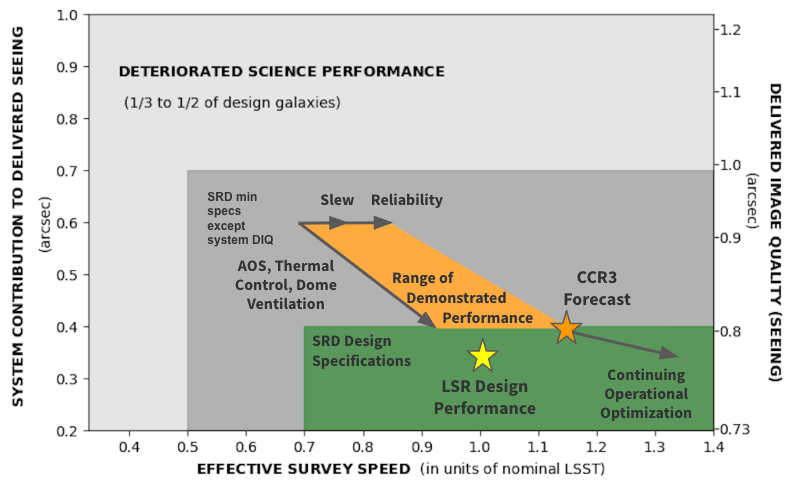
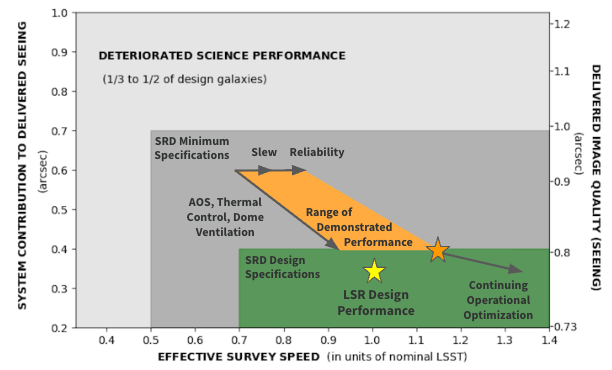
lean up and new figures

Changed region(s): [[0.0, 0.0, 0.9935, 1.0]]

diff --git a/criteria.tex b/criteria.tex
@@ -1,8 +1,8 @@
 \section{Criteria to begin the LSST}
 
-Armed with an understanding of the \it{as--built} system performance as outlined above and the Operations team readiness, we will use a set of objective criteria to gate the start of the LSST. These criteria will be concise and easily understandable so that the community of scientists, Rubin staff and other stakeholders counting on Rubin and the survey can have confidence the Observatory is on track.
+Armed with an understanding of the {\it as--built} system performance as outlined above and the Operations team readiness, we will use a set of objective criteria to gate the start of the LSST. These criteria will be concise and easily understandable so that the community of scientists, Rubin staff and other stakeholders counting on Rubin and the survey can have confidence the Observatory is on track.
 
-The criteria articulated below are meant only to provide gating guidance signifying the survey start. There will likely be key processes within the overall system, including data management and processing where further work for improvements are required or desired after handover (beyond the construction project requirements). Unless these would prevent acquisition and saving of science quality data, thereby delaying the survey start, they are not discussed or enumerated here.  These and other criteria (TBD) will be used to gage and monitor the overall performance of the Observatory and progress towards the 10--year survey objectives going forward, with nominal $T=0$ defined by when start criteria described herein are met.
+The criteria articulated below are meant only to provide gating guidance signifying the survey start. There will be key processes within the overall system, including data management and processing where further work for improvements are required or desired after handover (beyond the construction project requirements). Unless these would prevent acquisition and saving of science quality data, thereby delaying the survey start, they are not discussed or enumerated here.  These and other criteria (TBD) will be used to gauge and monitor the overall performance of the Observatory and progress towards the 10--year survey objectives going forward, with nominal $T=0$ defined by when start criteria described herein are met.
 
 The initial set of criteria developed by Operations team were discussed with the Science Advisory Committee and community at the 2024 Rubin Community Workshop. These criteria have evolved since that meeting and are presented here in the table below.
 
@@ -16,13 +16,13 @@ The initial set of criteria developed by Operations team were discussed with the
 Item & Criterion & Description& Status \\
 \hline \hline
 
-1 & \makecell[l]{LSSTCam\\ Maintenance} & Before the completion of SV, it is understood whether or not off TMA Camera maintenance will be needed within the first year of Operations.& No off TMA maintenance required.  \\\hline  
+1 & \makecell[l]{LSSTCam\\ Maintenance} & Before the completion of SV, it is understood whether or not off TMA Camera maintenance will be needed within the first year of Operations.& \makecell[l]{No off TMA \\maintenance\\ required.}  \\\hline  
 
-2 & SRD & All science requirements that can be verified with SV data are verified or expected to be verified within 3 months of completion of SV. & Status at CCR3 \\\hline
+2 & SRD & All science requirements that can be verified with SV data are verified or expected to be verified within 3 months of completion of SV. & Check status at CCR3 \\\hline
 
 3 & Dome & The dome environment is not limiting typical performance. &\makecell[l]{ Not controlled \\until after \\Handover} \\\hline
 
-4 & Calibration & All necessary calibration data products are available at the time any LSST data are obtained or can be obtained after the fact without invalidating the observed data for inclusion in the LSST. & Status at CCR3 \\\hline
+4 & Calibration & All necessary calibration data products are available at the time any LSST data are obtained or can be obtained after the fact without invalidating the observed data for inclusion in the LSST. & Check status at CCR3 \\\hline
 
 5 & DIQ & The ''System'' contribution to the measured Delivered Image quality is better than or equal to 0.45$\arcsec$ & \makecell[l]{Currently 0.6$\arcsec$ \\system \\contribution}\\\hline
 
@@ -30,7 +30,7 @@ Item & Criterion & Description& Status \\
 
 7 & Cadence & The scientific merits and technical feasibility of the planned survey scheduler algorithms for DR1 have bee reviewed and verified. & In progress\\\hline
 
-8 & Early Science & DP2 observations are completed as planned \citep{RTN-011}.& Status at CCR3 \\
+8 & Early Science & DP2 observations are completed as planned \citep{RTN-011}.& \makecell[l]{SV is complete; \\a report will be delivered by \\October.} \\
 
 \hline
 \end{tabular}
@@ -38,20 +38,22 @@ Item & Criterion & Description& Status \\
 
 The initial boundary conditions for determining the start criteria are that the construction project has successfully accomplished its own Construction Completeness Criteria (\cite{SITCOMTN-005}) and has passed the third Construction Completeness Review (CCR3).  Successful completion of CCR3 means NSF and DOE have accepted the system as the one that was intended to be built and will operate to conduct the 10-year LSST science program.  
 
-The survey start criteria cover a range of contexts.  The criteria are not meant to be comprehensive with respect to gauging and monitoring LSST's scientific progress and success. They are intended to serve as a guide for the confident commencement of the survey -- effectively establishing what will be referred to as LSST $T=0$.  Most of the defined criteria look to be well in hand based on what we know about commissioning progress and system performance as reported at CCR2/ORR1.  Of the 8 criteria enumerated we have identified what we call ''The Big 3'', namely: Delivered Image Quality separated into two primary contributors -- (1) the interior dome environment plus (2) the hardware system (optics, tracking etc..), and (3) the survey speed or Normalized \'{E}tendue. These are discussed in more detail in the notes below.
+The survey start criteria cover a range of contexts.  The criteria are not meant to be comprehensive with respect to gauging and monitoring LSST's scientific progress and success. They are intended to serve as a guide for the confident commencement of the survey -- effectively establishing what will be referred to as LSST T$=0$.  Most of the defined criteria look to be well in hand based on what we know about commissioning progress and system performance as reported at CCR2/ORR1.  Of the 8 criteria enumerated we have identified what we call ''The Big 3,'' : Delivered Image Quality (DIQ) with two primary contributors -- (1) the interior dome environment plus (2) the hardware system (optics, tracking etc.), and (3) the survey speed or Normalized \'{E}tendue. 
 
-Item 1 is already met. We do not expect to have to remove the camera for maintenance before we begin the survey. Item 2 is needed to ensure some key aspects of the system don't need verification before we embark on the LSST. Some long term SRD requirements need a significant amount of data to finally validate. But we can be assured data being taken are going to be valid for the LSST if the requirements that can be validated with SV data have been. This will be confirmed at CCR3. The calibration system (item 4)  is in the advanced stages of validation. By CCR3, we can be assured no outstanding calibration needs will limit the taking of images for the LSST. For item 7, the Survey Cadence Optimization Committee has delivered to the Operations Directorate one (or more) proposed survey cadence algorithms to be implemented using the Feature Based Scheduler.  The scientific merits and technical feasibility of the proposed algorithm(s) will have been reviewed (If more than one proposal is provided a selection is made).  This selection will be the core algorithm adopted through LSST observations leading to the first data release DR1.  Remaining minor adjustments to the adopted algorithms are expected to be made as needed.  The adopted cadence algorithm has been verified with simulations using as--built performance, by on-sky operations using the Feature Based Scheduler.  Once SV data taking is complete, we will know the content of DP2 (item 8) and be able to decide whether or not any significant augmentations are critical for community preparation prior to data release 1 \citep[DR1; see][]{RTN-011}. 
+Looking at the criteria in Table~\ref{tab:criteria}, Item 1 is already met. We do not expect to have to remove the camera for maintenance before we begin the survey. Item 2 is needed to ensure some key aspects of the system don't need verification before we embark on the LSST. Some long term SRD requirements need a significant amount of data to finally validate. But we can be assured data being taken are going to be valid for the LSST if the requirements that can be validated with SV data have been validated. This will be confirmed at CCR3. The calibration system (item 4)  is in the advanced stages of validation. By CCR3, we can be assured no outstanding calibration needs will limit the taking of images for the LSST. For item 7, the Survey Cadence Optimization Committee has delivered to the Operations Directorate one (or more) proposed survey cadence algorithms to be implemented using the Feature Based Scheduler.  The scientific merits and technical feasibility of the proposed algorithm(s) will have been reviewed (If more than one proposal is provided a selection is made).  This selection will be the core algorithm adopted through LSST observations leading to the first data release DR1.  Remaining minor adjustments to the adopted algorithms are expected to be made as needed.  The adopted cadence algorithm has been verified with simulations using as--built performance, by on-sky operations using the Feature Based Scheduler.  Once SV data taking is complete, we will know the content of DP2 (item 8) and be able to decide whether or not any significant augmentations are critical for community preparation prior to data release 1 \citep[DR1; see][]{RTN-011}. 
+
+This leave the dome environment and optics left to consider.
 
 \subsection{Dome Environmental Control}
-The dome will be the last major subsystem to be completed. Indeed it will not be done until mid 2026. The critical aspects that are needed are: to install, provide control for, and optimize the actuators for the dome louvers and the installation of the HVAC ductwork used for daytime thermal conditioning of the dome interior. There are 40 louvers, and some large fraction need to be operable (open at fractions consistent with telemetry in real time for temperatures and wind). The first actuators are installed now and one louver has been opened at night. Still more will need to be brought on line after the handover to meeting the system image quality criterion (we currently expect 12 will be operable after handover). If the louvers limit us to worse than typical min SRD system DIQ performance, we won't be able to start the LSST until they are largely deployed and in routine operation. 
+The dome will be the last major subsystem to be completed. Indeed it will not be done until mid 2026. The critical aspects that are needed are: to install, provide control for, and optimize the actuators for the dome louvers and the installation of the HVAC ductwork used for daytime thermal conditioning of the dome interior. There are 40 louvers, and some large fraction need to be operable (open at fractions consistent with telemetry in real time for temperatures and wind). The first actuators are installed now and one louver has been opened at night. Still more will need to be brought on line after the handover to meeting the system image quality criterion (we currently expect 12 will be operable after handover). If the louvers limit us to worse than typical system DIQ performance, we won't be able to start the LSST until they are largely deployed and in routine operation. 
 
 There are large ducts that will provide conditioned air distribution supplied by the main air handlers inside the facility. This system is designed to pre-condition the internal dome environment during daytime hours to minimize thermal discontinuities at the start of each night caused by diurnal heating.  This system is designed improve our ability to maintain the enclosure at closer to the anticipated mean nighttime temperature during the (earlier) day time. Maintaining thermal equilibrium in the environment in and around the telescope is critical to optimum DIQ during the night. The ducts are necessary but not sufficient. We will also need to gain experience in forecasting the coming night's temperature to be able to use the air conditioning effectively (i.e. to set the system to hit the right target). 
 
 Further use of available temperature sensors on the telescope and in the dome will help on going analyses aimed at improving the AOS and thermal control of the optics in real time. 
 
-The total contribution to DIQ from the dome environment is modest. Including all sources of turbulence generated by the facility, the budget to contribute to the DIQ is only 0.09$\arcsec$. Clearly all systems for controlling these contributions need to be working well and reliably. The observatory will need to rely on the ability to characterize parts of the DIQ coming from this environment. Thus we will prioritize reliable operation and calibration of our DIMM, in-dome seeing monitors, as well as the atmospheric profiler on Cerro Pach\'{on}, RINGSS.  
+The total contribution to DIQ from the dome environment is modest. Including all sources of turbulence generated by the facility, the budget (i.e residual contribution after control) to contribute to the DIQ is only 0.09$\arcsec$. Clearly all systems for controlling these contributions need to be working well and reliably. The observatory will need to rely on the ability to characterize parts of the DIQ coming from this environment. Thus we will prioritize reliable operation and calibration of our DIMM, in-dome seeing monitors, as well as the atmospheric profiler on Cerro Pach\'{on}, RINGSS.  
 
-\subsection{Deleivered Image Quality (DIQ)}
+\subsection{Delivered Image Quality (DIQ)}
 
 The single most important gain needed to get to the LSST start is clearly the typical DIQ.  We will not start the LSST until the sustained performance of the system contribution to DIQ is $\le$ 0.45$\arcsec$.  This criteria is the combination of both the telescope + LSSTCam optics and the degradations caused from any thermal non-equilibrium. Currently the very least the active optics contributes to the system has been measured at 0.33$\arcsec$.  The target for the active optics contribution is 0.25$\arcsec$ indicating there is room for improvement.  In addition to the active optics contribution, much of the remaining improvement needed to meet the system DIQ start criterion will come from system thermal control (mostly the dome environment).
 
@@ -60,7 +62,7 @@ Improving the system contribution to the DIQ requires continued effort on the co
 \begin{figure}[t]
 \centering
 \includegraphics[width=0.85\linewidth]{speed3.png}
-\caption{Image quality versus effective survey speed or Normalized \'{E}tendue. The large orange rectangle represents the region in this space within which we can confidently start the LSST.}
+\caption{Image quality versus effective survey speed or Normalized \'{E}tendue. The large orange rectangle represents the region in this space within which we can confidently start the LSST while working to maintain and improve performance.}
 \label{speed3}
 \end{figure}
 
@@ -69,7 +71,7 @@ Much of the effective speed (Normalized  \'{E}tendue) is already demonstrated to
 
 The TMA is capable of accelerating more than we currently operate it. Higher acceleration requires improvements in the control of dynamic loads on the M1M3 glass via force actuators. However the current performance with glass is captured in the scheduler simulator and is only a modest hit to overall survey speed. We will continue to work on improved dynamic control even as we operate for LSST. Slew and settle performance are well understood and adequate. Modest gains on fO are forecast for the rest of SV and early operations. We expect the current value to go from 0.97 to 1.05. 
 
-This leaves the System Availability, Current performance of 0.75 needs to be improved. Doing only science like observations we have reached 85$\%$ at times. We need to continue to improve on procedures and reliability of systems throughout the summit facility as we go forward. This means training for faster troubleshooting and fault recovery, making communications on the telescope system bus more reliable, improving reliability of telescope, dome, and camera functions. These have all seen marked progress as expected though out system integration, test, and commissioning. We will assume current performance of 75$\%$ conservatively. 
+This leaves the System Availability, Current performance of 0.75 needs to be improved. Doing only science like observations we have reached 85$\%$ at times. We need to continue to improve on procedures and reliability of systems throughout the summit facility as we go forward. This means training for faster troubleshooting and fault recovery, making communications on the telescope system bus more reliable, improving reliability of telescope, dome, and camera functions. These have all seen marked progress as expected thoughout system integration, test, and commissioning. We will assume current performance of 75$\%$ conservatively. 
 
 Using the combined SRD minimum specifications the lowest Normalized \'{E}tendue allowed is 0.7. This level is nearly in hand; see Table~\ref{tab:factors} and the ''Sustained Performance values''. We will start the LSST consistent with System Availability of 75$\%$ which leads to fE \~1.0 using the Demonstrated Capability column f factors in Table~\ref{tab:factors}. However, the actual value will be better given that we expect the System Availability to improve significantly. 
 

diff --git a/speed.tex b/speed.tex
@@ -24,11 +24,11 @@ In Figure~\ref{speed}, we show the state of our understanding of the image quali
 \label{speed}
 \end{figure}
 
-There are three regions defined in the diagram, green, light grey and dark grey, representing broad levels of operational performance towards meeting the 10--year LSST objectives. Clearly we want to be in the green shaded region and to the lower right in that space. The boundaries of the green box are defined by the design specification from the SRD (upper) and stretch goals (lower) for the system image quality contribution.  The light gray space is unacceptable for science and the dark gray space covers the area where SRD minimum specifications are met for depth, area of LSST, and visits, but fails to meet the specification for minimum system contribution to the DIQ (0.4$\arcsec$). 
+There are three regions defined in the diagram, green, light grey and dark grey, representing broad levels of operational performance towards meeting the 10--year LSST objectives. Clearly we want to be in the green shaded region and to the lower right in that space. The boundaries of the green box are defined by the design specification from the SRD (upper) and stretch goals (lower) for the system image quality contribution.  The light gray space is unacceptable for science and the dark gray space covers the area where SRD minimum specifications are met for depth, area of LSST, and visits, but fails to meet the specification for system contribution to the DIQ (0.4$\arcsec$). 
 
-As of CCR2/ORR1, the current values for the f factors are given in the following table. For fA, the value is set by the number of science pixels available (each with 0.2 $\times$ 0.2 arcsec$^2$ on the sky). Accounting for the active pixels meeting specifications, the factor is fully 99$\%$. The fS factor includes read noise, QE, vignetting, optical throughput (filter, lens transmission, mirror reflectance) and DIQ (so DIQ affects both axes in our diagram). The observing efficiency factor, fO, is a function of how many visits of the right exposure time can be observed given telescope performance (how fast we move and settle). Finally, system availability is defined as the open shutter science time compared to the total elapsed time working on the on sky programs. Presently, if we consider only times when we are in the science data taking mode (doing LSST like observations) we have sustained 85$\%$ availability over a week long period. If we consider other system tuning in the denominator mixed with the science SV observations, the availability is about 75$\%$. 
+As of CCR2/ORR1, the current values for the f factors are given in Table~\ref{tab:factors}. For fA, the value is set by the number of science pixels available (each with 0.2 $\times$ 0.2 arcsec$^2$ on the sky). Accounting for the active pixels meeting specifications, the factor is fully 99$\%$. The fS factor includes read noise, QE, vignetting, optical throughput (filter, lens transmission, mirror reflectance) and DIQ (so DIQ affects both axes in our diagram). The observing efficiency factor, fO, is a function of how many visits of the right exposure time can be observed given telescope performance (how fast we move and settle). Finally, system availability is defined as the open shutter science time compared to the total elapsed time working on the on--sky programs. Presently, if we consider only times when we are in the science data taking mode (doing LSST like observations) we have sustained 85$\%$ availability over a week long period. If we consider other system tuning in the denominator mixed with the science SV observations, the availability is about 75$\%$. 
 
-The range of performance between what has been achieved over periods of SV and the best performance is shown in Figure~\ref{speed2}. The goal of further optimization is to use the available technical "knobs" to tune the performance and make it more reliable. These are at a high level, the active optics system (AOS) and associated wavefront analysis, thermal control of the M1M3 cell, thermal control of the top end assembly (volume around M2), and the dome ventilation (active control of louvers and installation of the air distribution ducting). All of these are under active work and progress has been made on a number of fronts not yet reflected in Figure~\ref{speed2}. Mostly because the time available on sky has been limited since CCR2/ORR1. 
+The range of performance between what has been achieved over periods of SV and the best performance is shown in Figure~\ref{speed2}. The goal of further optimization is to use the available technical "knobs" to tune the performance and make it more reliable. Some of the knobs are to be deployed in the September -- October 2025 shutdown. The knobs are, at a high level, a laser alignment system, the active optics system (AOS) and associated wavefront sensing/analysis, thermal control of the M1M3 cell, thermal control of the top end assembly (volume around M2), and the dome ventilation (active control of louvers and installation of the air distribution ducting, both not yet deployed). Deployed or not, all of these are under active work and progress has been made on a number of fronts not yet reflected in Figure~\ref{speed2}. Mainly, but not entirely,  because the time available on sky has been limited since CCR2/ORR1. 
 
 \begin{table}[]
 \renewcommand{\arraystretch}{2}
@@ -53,7 +53,7 @@ fE & Normalized \'{E}tendue & 0.68 & 1.15 \\
 \begin{figure}[t]
   \centering
 \includegraphics[width=0.85\linewidth]{speed2.png}
-\caption{Image quality versus effective survey speed, fE with performance presented at CCR2-ORR1. Upper left of the orange performance region is sustained over week long periods in SV. The best performance (capability) is represented by the lower right vertex of the region. This forecast to be the typical performance by CC3. This may or may not happen depending on teh progress made in the remaining month of on sky work. }
+\caption{Image quality versus effective survey speed, fE with performance presented at CCR2-ORR1. Upper left of the orange performance region is sustained over week long periods in SV. The best performance (capability) is represented by the lower right vertex of the region. We are focused on getting reliable performance there and beyond as indicated. The minimum performance needed to begin the LSST is discussed below.}
 \label{speed2}
 \end{figure}
 
